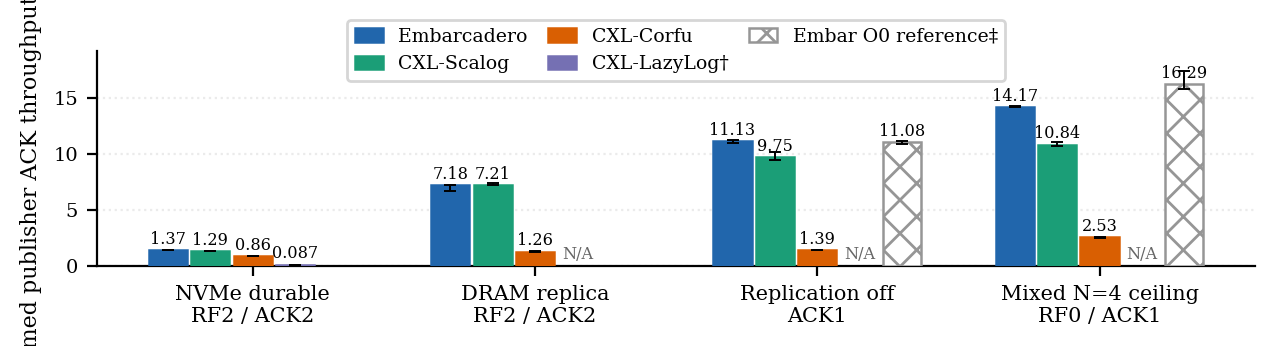
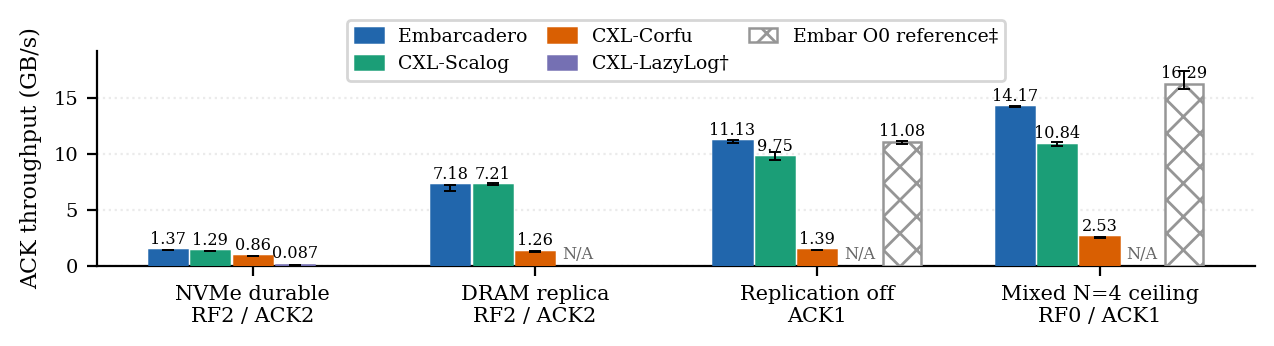
eval: add session-lease sensitivity evidence

Changed region(s): [[0.0, 0.0, 0.0306, 0.8382], [0.0, 0.8671, 0.0306, 1.0]]

diff --git a/PaperScripts/plot_fig1_throughput_scaling.py b/PaperScripts/plot_fig1_throughput_scaling.py
@@ -270,7 +270,7 @@ def main() -> None:
 
     ax.set_xticks(centers)
     ax.set_xticklabels([label for _, label in GROUPS])
-    ax.set_ylabel("Summed publisher ACK throughput (GB/s)")
+    ax.set_ylabel("ACK throughput (GB/s)")
     ax.set_ylim(0, 19.2)
     ax.set_xlim(-0.55, 3.55)
     ax.grid(True, axis="y", alpha=0.25, linestyle=":", zorder=0)

diff --git a/data/paper_eval/task2_fence_replay/EMBARCADERO_lease500_gap1500/README.md b/data/paper_eval/task2_fence_replay/EMBARCADERO_lease500_gap1500/README.md
@@ -1,0 +1,17 @@
+# 500 ms session-fence sensitivity
+
+This campaign repeats the end-to-end gap, fence, reopen, replay, deliver, and
+apply audit with a 500 ms session lease and a 1,500 ms injected predecessor
+delay. Both sessions are intentionally gapped; neither is an unaffected
+control.
+
+Across three trials, both sessions apply all 1,510,000 published operations
+with zero session-order inversions, key-order inversions, or final-state
+mismatches. `SESSION_FENCED` is observed 499.576--499.866 ms after gap
+injection across the six session executions.
+
+This measures the implemented session-fence timer under controlled gaps. It
+does not measure the unimplemented CXL failure detector or sequencer election.
+The lossless client and broker logs remain in this campaign directory in the
+working artifact; the committed compact record contains results, timing, and
+binary provenance.

diff --git a/data/paper_eval/task2_fence_replay/TASK2_FENCE_RESULTS.md b/data/paper_eval/task2_fence_replay/TASK2_FENCE_RESULTS.md
@@ -15,3 +15,12 @@ both sessions complete (the global gap knob delays every publisher, so BOTH sess
 this run has no unaffected control session — cross-session isolation is a separate experiment). Combined with the follower-kill result
 (contract survives broker failure via replica), Task 2's Q2xQ3 thesis is demonstrated across BOTH
 recovery modes.
+
+## Lease sensitivity
+
+A matched 500 ms lease / 1,500 ms gap campaign also passes 3/3 trials for both
+sessions: all 1,510,000 operations apply with zero ordering or final-state
+violations. Across the six session executions, `SESSION_FENCED` is observed
+499.576--499.866 ms after gap injection. This isolates the implemented
+session-fence timer; it is not a measurement of the unimplemented CXL failure
+detector.
